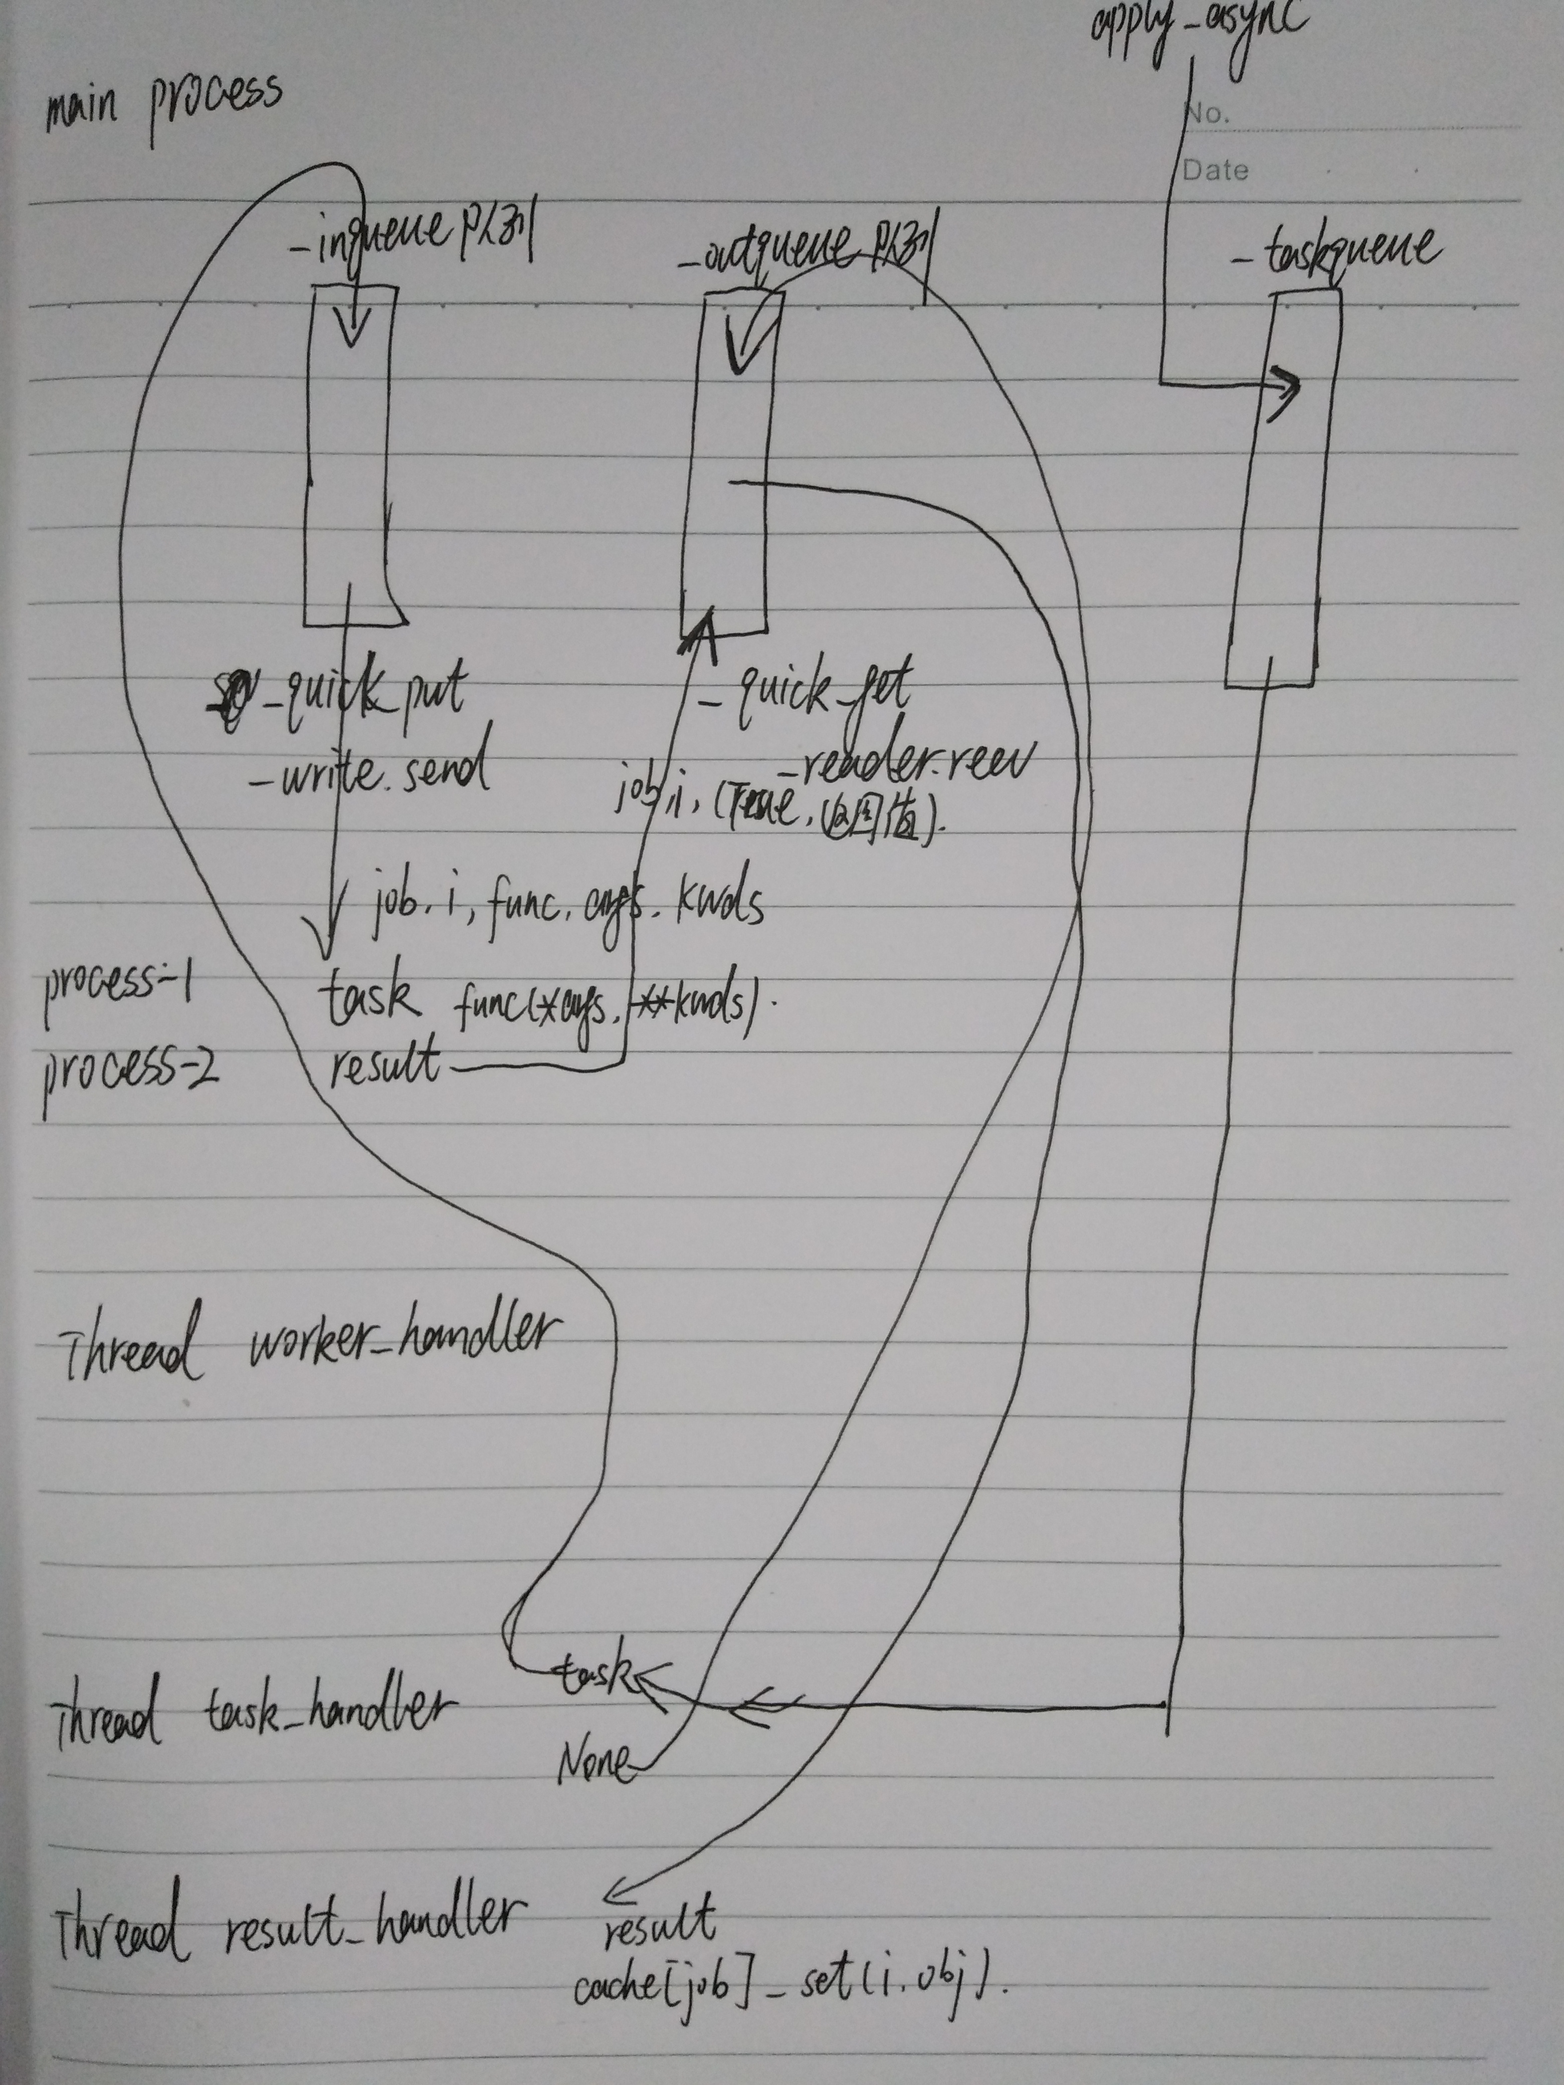
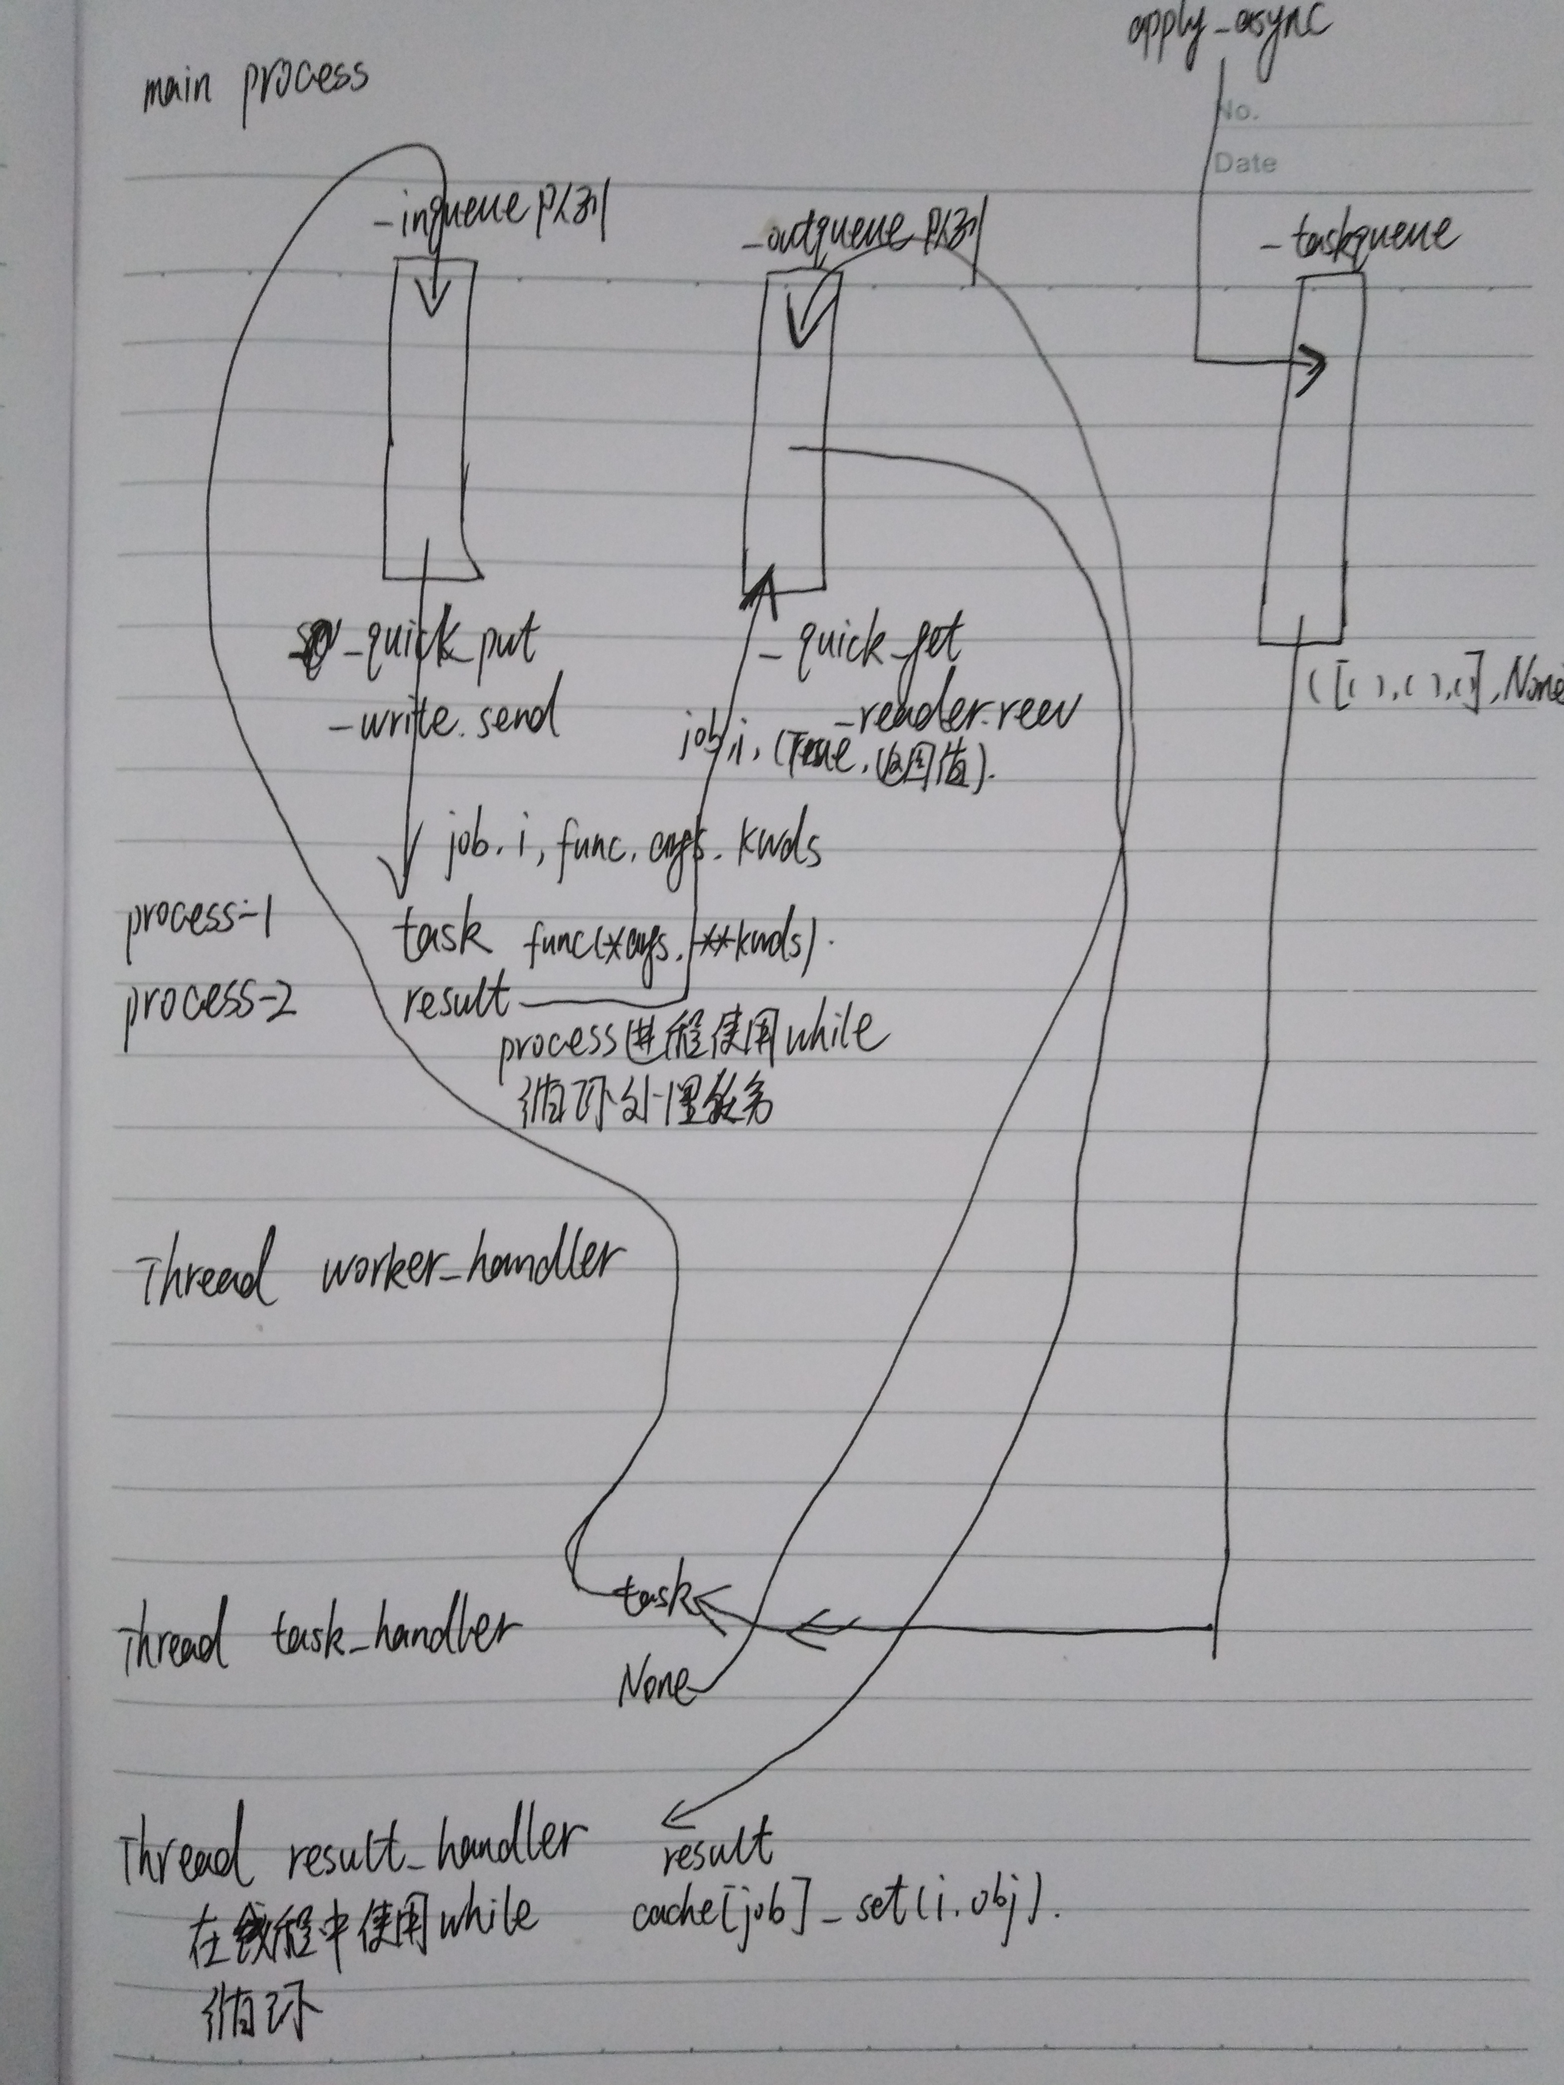
实现apply和map方法

diff --git a/Lib/multiprocessing/process_pool.py b/Lib/multiprocessing/process_pool.py
@@ -22,6 +22,8 @@ TERMINATE = 2
 
 job_counter = itertools.count()
 
+def mapstar(args):
+    return map(*args)
 
 def worker(inqueue, outqueue, initializer=None, initargs=(), maxtasks=None):
     """
@@ -38,11 +40,31 @@ def worker(inqueue, outqueue, initializer=None, initargs=(), maxtasks=None):
     if initializer is not None:
         initializer(*initargs)
 
-    task = inqueue.get()
-    print 'worker process: ', task  # (0, None, <function sqr at 0x7f8c0462e938>, (5,), {})
-    job, i, func, args, kwds = task
-    result = (True, func(*args, **kwds))
-    outqueue.put((job, i, result))
+    completed = 0
+    while maxtasks is None or (maxtasks and completed < maxtasks):
+        task = inqueue.get()
+        print 'worker process: ', task
+        """
+        apply
+        (0, None, <function sqr at 0x7ff5f6f999b0>, (5,), {})
+
+        map
+        (0, 1, <function mapstar at 0x7facbec610c8>, ((<function sqr at 0x7facbcf829b0>, (2, 3)),), {})
+        """
+        job, i, func, args, kwds = task
+        result = (True, func(*args, **kwds))
+        print 'worker process: ', result
+        """
+        apply
+        (True, 25)
+        (job, i, (True, 25))
+
+        map
+        (True, [4, 9])
+        (job, i, (True, [4, 9]))
+        """
+        outqueue.put((job, i, result))
+        completed += 1
 
 
 class Pool(object):
@@ -155,11 +177,56 @@ class Pool(object):
         args=(self._taskqueue, self._quick_put, self._outqueue,
               self._pool, self._cache)
         """
-        taskseq = taskqueue.get()
-        print 'thread handle_tasks: ', taskseq  # ([(0, None, <function sqr at 0x7f1fabd7c938>, (5,), {})], None)
-        task = taskseq[0][0]
-        print 'thread handle_tasks: ', task  # (0, None, <function sqr at 0x7f8aace37938>, (5,), {})
-        put(task)
+
+        """
+        apply task 结构
+        ([(0, None, <function sqr at 0x7f1fabd7c938>, (5,), {})], None)
+
+        map task 结构
+        (<generator object <genexpr> at 0x7fc0970d65f0>, None)
+        (0, 0, <function mapstar at 0x7f6f718070c8>, ((<function sqr at 0x7f6f6fb289b0>, (0, 1)),), {})
+        (0, 1, <function mapstar at 0x7f6f718070c8>, ((<function sqr at 0x7f6f6fb289b0>, (2, 3)),), {})
+        (0, 2, <function mapstar at 0x7f6f718070c8>, ((<function sqr at 0x7f6f6fb289b0>, (4, 5)),), {})
+        (0, 3, <function mapstar at 0x7f6f718070c8>, ((<function sqr at 0x7f6f6fb289b0>, (6, 7)),), {})
+        (0, 4, <function mapstar at 0x7f6f718070c8>, ((<function sqr at 0x7f6f6fb289b0>, (8, 9)),), {})
+
+        [0, 1, 2, 3, 4, 5, 6, 7, 8, 9]
+        [(0, 1), (2, 3), (4, 5), (6, 7), (8, 9)]
+        [(function, (0, 1)), (function, (2, 3)), (function, (4, 5)), (function, (6, 7)), (function, (8, 9))]
+        [         0,                  1,                  2,                  3,                  4        ]
+
+        """
+
+        # taskseq = taskqueue.get()
+        # print 'thread handle_tasks: ', taskseq
+        # task = taskseq[0][0]
+        # print 'thread handle_tasks: ', task  # (0, None, <function sqr at 0x7f8aace37938>, (5,), {})
+        # put(task)
+
+        for taskseq, set_length in iter(taskqueue.get, None):
+            print 'thread handle_tasks: ', taskseq, set_length
+            """
+            apply
+            [(0, None, <function sqr at 0x7f59caab59b0>, (5,), {})] None
+
+            map
+            <generator object <genexpr> at 0x7ff856193870> None
+            """
+            for i, task in enumerate(taskseq):
+                print 'enumerate thread handle_tasks: ', i, task
+                """
+                apply
+                0 (0, None, <function sqr at 0x7f83e68279b0>, (5,), {})
+
+                map
+                0 (0, 0, <function mapstar at 0x7ff857ec20c8>, ((<function sqr at 0x7ff8561e39b0>, (0, 1)),), {})
+                1 (0, 1, <function mapstar at 0x7ff857ec20c8>, ((<function sqr at 0x7ff8561e39b0>, (2, 3)),), {})
+                2 (0, 2, <function mapstar at 0x7ff857ec20c8>, ((<function sqr at 0x7ff8561e39b0>, (4, 5)),), {})
+                3 (0, 3, <function mapstar at 0x7ff857ec20c8>, ((<function sqr at 0x7ff8561e39b0>, (6, 7)),), {})
+                4 (0, 4, <function mapstar at 0x7ff857ec20c8>, ((<function sqr at 0x7ff8561e39b0>, (8, 9)),), {})
+
+                """
+                put(task)
 
     @staticmethod
     def _handle_results(outqueue, get, cache):
@@ -170,10 +237,19 @@ class Pool(object):
 
         args=(self._outqueue, self._quick_get, self._cache)
         """
-        taskseq = outqueue.get()
-        print 'handle_results: ', taskseq  # (0, None, (True, 25))
-        job, i, obj = taskseq
-        cache[job]._set(i, obj)
+
+        while 1:
+            taskseq = outqueue.get()
+            print 'handle_results: ', taskseq
+            """
+            apply
+            (0, None, (True, 25))
+
+            map
+            (0, 1, (True, [4, 9]))
+            """
+            job, i, obj = taskseq
+            cache[job]._set(i, obj)
 
     def _repopulate_pool(self):
         """实例化 worker 进程
@@ -212,7 +288,11 @@ class Pool(object):
         return result
 
     def map(self, func, iterable, chunksize=None):
-        pass
+        '''
+        Equivalent of `map()` builtin
+        '''
+        assert self._state == RUN
+        return self.map_async(func, iterable, chunksize).get()
 
     def imap(self, func, iterable, chunksize=1):
         pass
@@ -235,7 +315,39 @@ class Pool(object):
         return result
 
     def map_async(self, func, iterable, chunksize=None, callback=None):
-        pass
+        '''
+        Asynchronous equivalent of `map()` builtin
+        '''
+        assert self._state == RUN
+        if not hasattr(iterable, '__len__'):
+            iterable = list(iterable)
+
+        if chunksize is None:
+            chunksize, extra = divmod(len(iterable), len(self._pool) * 4)
+            if extra:
+                chunksize += 1
+        if len(iterable) == 0:
+            chunksize = 0
+
+        task_batches = Pool._get_tasks(func, iterable, chunksize)
+        # print task_batches
+        result = MapResult(self._cache, chunksize, len(iterable), callback)
+        # generator_task = ((result._job, i, mapstar, (x,), {}) for i, x in enumerate(task_batches))
+        # for gene_task in generator_task:
+        #     print gene_task
+        #     """
+        #     (0, 0, <function mapstar at 0x7f6f718070c8>, ((<function sqr at 0x7f6f6fb289b0>, (0, 1)),), {})
+        #     (0, 1, <function mapstar at 0x7f6f718070c8>, ((<function sqr at 0x7f6f6fb289b0>, (2, 3)),), {})
+        #     (0, 2, <function mapstar at 0x7f6f718070c8>, ((<function sqr at 0x7f6f6fb289b0>, (4, 5)),), {})
+        #     (0, 3, <function mapstar at 0x7f6f718070c8>, ((<function sqr at 0x7f6f6fb289b0>, (6, 7)),), {})
+        #     (0, 4, <function mapstar at 0x7f6f718070c8>, ((<function sqr at 0x7f6f6fb289b0>, (8, 9)),), {})
+        #     """
+        task = (((result._job, i, mapstar, (x,), {}) for i, x in enumerate(task_batches)), None)
+        print task  # (<generator object <genexpr> at 0x7fc0970d65f0>, None)
+        print type(task)  # <type 'tuple'>
+        self._taskqueue.put(task)
+        return result
+
 
     def close(self):
         pass
@@ -245,6 +357,15 @@ class Pool(object):
 
     def join(self):
         pass
+
+    @staticmethod
+    def _get_tasks(func, it, size):
+        it = iter(it)
+        while 1:
+            x = tuple(itertools.islice(it, size))
+            if not x:
+                return
+            yield (func, x)
 
     def __reduce__(self):
         raise NotImplementedError(
@@ -302,13 +423,82 @@ class ApplyResult(object):
             self._cond.release()
         del self._cache[self._job]
 
+
+AsyncResult = ApplyResult       # create alias -- see #17805
+
+#
+# Class whose instances are returned by `Pool.map_async()`
+#
+
+class MapResult(ApplyResult):
+
+    def __init__(self, cache, chunksize, length, callback):
+        ApplyResult.__init__(self, cache, callback)
+        self._success = True
+        self._value = [None] * length
+        self._chunksize = chunksize
+        if chunksize <= 0:
+            self._number_left = 0
+            self._ready = True
+            del cache[self._job]
+        else:
+            self._number_left = length//chunksize + bool(length % chunksize)
+        print 'self._success:  {} type: {}' . format(self._success, type(self._success))
+        print 'self._value:  {} type: {}' . format(self._value, type(self._value))
+        print 'self._chunksize:  {} type: {}' . format(self._chunksize, type(self._chunksize))
+        print 'self._number_left:  {} type: {}' . format(self._number_left, type(self._number_left))
+        print 'self._ready:  {} type: {}' . format(self._ready, type(self._ready))
+        """
+        self._success:  True type: <type 'bool'>
+        self._value:  [None, None, None, None, None, None, None, None, None, None] type: <type 'list'>
+        self._chunksize:  2 type: <type 'int'>
+        self._number_left:  5 type: <type 'int'>
+        self._ready:  False type: <type 'bool'>
+        """
+
+    def _set(self, i, success_result):
+        success, result = success_result
+        print 'success:  {} type: {}' . format(success, type(success))
+        print 'result:  {} type: {}' . format(result, type(result))
+        """
+        success:  True type: <type 'bool'>
+        result:  [0, 1] type: <type 'list'>
+        """
+        if success:
+            self._value[i*self._chunksize:(i+1)*self._chunksize] = result
+            print 'self._value:  {} type: {}' . format(self._value, type(self._value))
+            # self._value:  [0, 1, None, None, None, None, None, None, None, None] type: <type 'list'>
+            self._number_left -= 1
+            if self._number_left == 0:
+                if self._callback:
+                    self._callback(self._value)
+                del self._cache[self._job]
+                self._cond.acquire()
+                try:
+                    self._ready = True
+                    self._cond.notify()
+                finally:
+                    self._cond.release()
+
+        else:
+            self._success = False
+            self._value = result
+            del self._cache[self._job]
+            self._cond.acquire()
+            try:
+                self._ready = True
+                self._cond.notify()
+            finally:
+                self._cond.release()
+
+
 def sqr(x, wait=0.0):
     time.sleep(wait)
     return x*x
 
-
 if __name__ == '__main__':
     p = Pool(2)
     print p
-    result = p.apply(sqr, (5,))
-    print result
+    # result = p.apply(sqr, (5,))
+    result = p.map(sqr, range(10))
+    print result  # [0, 1, 4, 9, 16, 25, 36, 49, 64, 81]

diff --git a/process_pool/process_pool.md b/process_pool/process_pool.md
@@ -65,5 +65,73 @@ class ApplyResult(object):
         self._callback = callback
         cache[self._job] = self
 
+========================================================================
+### 实现apply和map方法
+```bash
+lanzhiwang@lanzhiwang-dev2:~/rzx_project/cpython/Lib$ python -m multiprocessing.process_pool multiprocessing/process_pool.py
+12331
+12332
+<__main__.Pool object at 0x7f5f82dec4d0>
+=============================method __init__ in class ApplyResult 
+self._cond:  <Condition(<thread.lock object at 0x7f5f84b94390>, 0)> type: <class 'threading._Condition'>
+self._job:  0 type: <type 'int'>
+self._cache:  {0: <__main__.MapResult object at 0x7f5f82d91c90>} type: <type 'dict'>
+self._ready:  False type: <type 'bool'>
+self._callback:  None type: <type 'NoneType'>
+{0: <__main__.MapResult object at 0x7f5f82d91c90>}
+self._success:  True type: <type 'bool'>
+self._value:  [None, None, None, None, None, None, None, None, None, None] type: <type 'list'>
+self._chunksize:  2 type: <type 'int'>
+self._number_left:  5 type: <type 'int'>
+self._ready:  False type: <type 'bool'>
+(<generator object <genexpr> at 0x7f5f82d9c7d0>, None)
+<type 'tuple'>
+thread handle_tasks:  <generator object <genexpr> at 0x7f5f82d9c7d0> None
+enumerate thread handle_tasks:  0 (0, 0, <function mapstar at 0x7f5f84acb0c8>, ((<function sqr at 0x7f5f82deb9b0>, (0, 1)),), {})
+worker process:  (0, 0, <function mapstar at 0x7f5f84acb0c8>, ((<function sqr at 0x7f5f82deb9b0>, (0, 1)),), {})
+worker process:  (True, [0, 1])
+enumerate thread handle_tasks:  1 (0, 1, <function mapstar at 0x7f5f84acb0c8>, ((<function sqr at 0x7f5f82deb9b0>, (2, 3)),), {})
+worker process:  (0, 1, <function mapstar at 0x7f5f84acb0c8>, ((<function sqr at 0x7f5f82deb9b0>, (2, 3)),), {})
+worker process:  (True, [4, 9])
+enumerate thread handle_tasks:  2 (0, 2, <function mapstar at 0x7f5f84acb0c8>, ((<function sqr at 0x7f5f82deb9b0>, (4, 5)),), {})
+worker process:  (0, 2, <function mapstar at 0x7f5f84acb0c8>, ((<function sqr at 0x7f5f82deb9b0>, (4, 5)),), {})
+worker process:  (True, [16, 25])
+enumerate thread handle_tasks:  3 (0, 3, <function mapstar at 0x7f5f84acb0c8>, ((<function sqr at 0x7f5f82deb9b0>, (6, 7)),), {})
+worker process:  (0, 3, <function mapstar at 0x7f5f84acb0c8>, ((<function sqr at 0x7f5f82deb9b0>, (6, 7)),), {})
+worker process:  (True, [36, 49])
+enumerate thread handle_tasks:  4 (0, 4, <function mapstar at 0x7f5f84acb0c8>, ((<function sqr at 0x7f5f82deb9b0>, (8, 9)),), {})
+worker process:  (0, 4, <function mapstar at 0x7f5f84acb0c8>, ((<function sqr at 0x7f5f82deb9b0>, (8, 9)),), {})
+worker process:  (True, [64, 81])
+handle_results:  (0, 0, (True, [0, 1]))
+success:  True type: <type 'bool'>
+result:  [0, 1] type: <type 'list'>
+self._value:  [0, 1, None, None, None, None, None, None, None, None] type: <type 'list'>
+handle_results:  (0, 1, (True, [4, 9]))
+success:  True type: <type 'bool'>
+result:  [4, 9] type: <type 'list'>
+self._value:  [0, 1, 4, 9, None, None, None, None, None, None] type: <type 'list'>
+handle_results:  (0, 2, (True, [16, 25]))
+success:  True type: <type 'bool'>
+result:  [16, 25] type: <type 'list'>
+self._value:  [0, 1, 4, 9, 16, 25, None, None, None, None] type: <type 'list'>
+handle_results:  (0, 3, (True, [36, 49]))
+success:  True type: <type 'bool'>
+result:  [36, 49] type: <type 'list'>
+self._value:  [0, 1, 4, 9, 16, 25, 36, 49, None, None] type: <type 'list'>
+handle_results:  (0, 4, (True, [64, 81]))
+success:  True type: <type 'bool'>
+result:  [64, 81] type: <type 'list'>
+self._value:  [0, 1, 4, 9, 16, 25, 36, 49, 64, 81] type: <type 'list'>
+[0, 1, 4, 9, 16, 25, 36, 49, 64, 81]
+lanzhiwang@lanzhiwang-dev2:~/rzx_project/cpython/Lib$ 
+
+```
+
+
+
+
+
+
+
 
 ```
